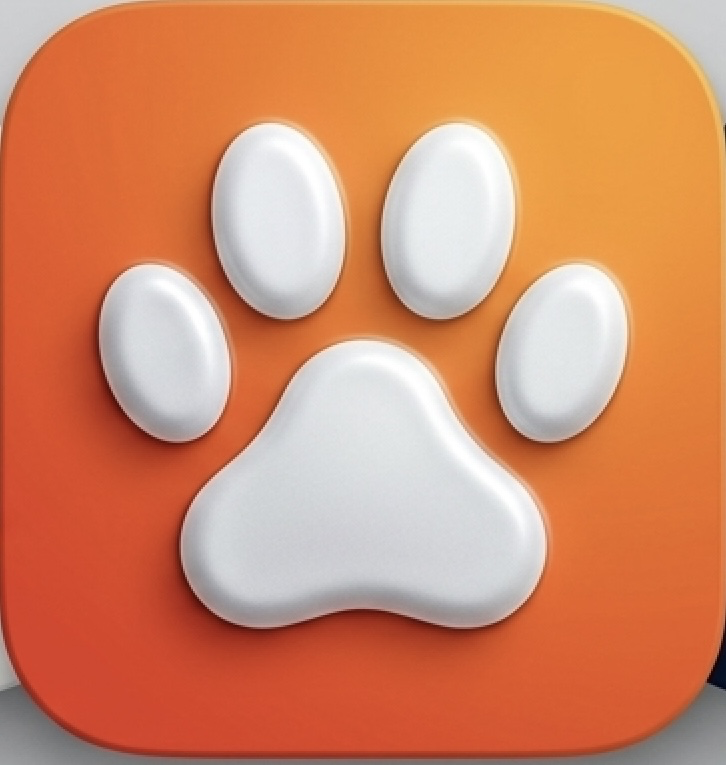
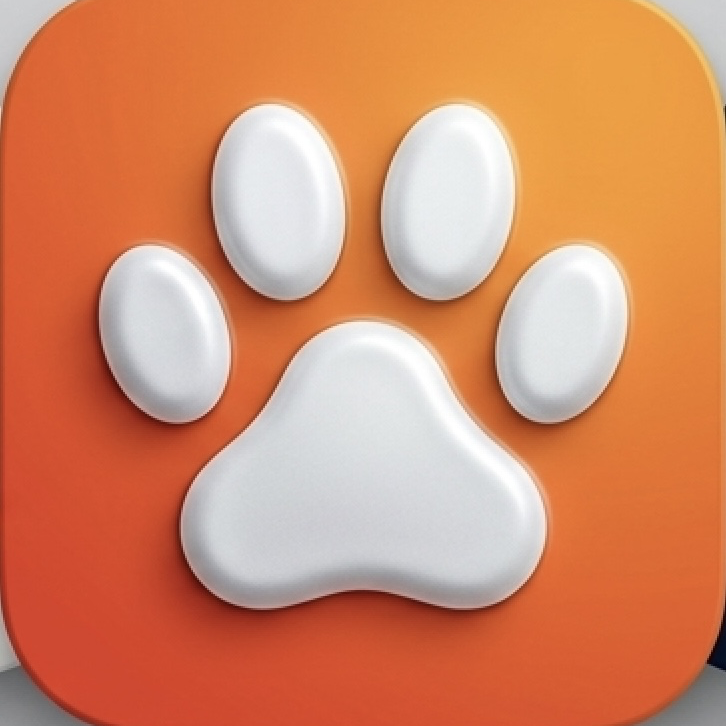
Fix active-dog state isolation and header dog picker
- Today, Walkouts, and Food tabs now strictly filter by
  STATE.activeDogId (walks via dog_id, food_items via new dog_id
  column) instead of showing all dogs' data pooled together. Pack
  tab remains the only global household view, unchanged.
- Header dog picker is now a real dropdown that only switches the
  active dog and closes; it no longer opens the Passport modal as
  a side effect (same fix applied to Pack tab card taps, which share
  the same setActiveDog()).
- Fixes confirmed live: walks/food_items were missing UPDATE
  policies (edits silently affected 0 rows), and walks.photo_url /
  dogs.avatar columns didn't exist despite being defined earlier in
  schema.sql, so every photo upload silently fell back to no photo /
  the default avatar. Added directly via `supabase db query --linked`
  and verified with real insert/update probes against the live DB.
- Square-cropped dogwalkr-icon.png (726x765 -> 726x726) for a clean
  iOS home screen icon.

diff --git a/app.html b/app.html
@@ -55,12 +55,15 @@
           </button>
           <span id="activeDogStatusDot" class="absolute bottom-0 right-0 w-3.5 h-3.5 bg-emerald-500 border-2 border-white rounded-full"></span>
         </div>
-        <div>
-          <div class="flex items-center space-x-1.5 cursor-pointer" onclick="openPackTab()">
+        <div class="relative">
+          <div class="flex items-center space-x-1.5 cursor-pointer" onclick="toggleDogPicker()">
             <h1 id="activeDogName" class="text-lg font-bold text-zinc-900 tracking-tight">Joe</h1>
             <i data-lucide="chevron-down" class="w-4 h-4 text-zinc-500"></i>
           </div>
           <p id="activeDogSubhead" class="text-xs font-medium text-zinc-500">Italian Greyhound • Active 🟢</p>
+          <div id="dogPickerDropdown" class="hidden absolute top-full left-0 mt-2 w-52 bg-white rounded-2xl shadow-xl border border-zinc-200 z-40 overflow-hidden py-1">
+            <!-- Populated by JS -->
+          </div>
         </div>
       </div>
 
@@ -150,13 +153,13 @@
       </section>
 
       <!-- ========================================================== -->
-      <!-- TAB 2: WALKOUTS (Workout Library)                          -->
+      <!-- TAB 2: WALKOUTS (Walkout Library)                          -->
       <!-- ========================================================== -->
       <section id="viewWalkouts" class="space-y-4 hidden">
         
         <div class="flex items-center justify-between">
           <div>
-            <h2 class="text-xl font-black text-zinc-900 tracking-tight">Workout Library</h2>
+            <h2 class="text-xl font-black text-zinc-900 tracking-tight">Walkout Library</h2>
             <p class="text-xs text-zinc-500">Strava Connected</p>
           </div>
           <button onclick="openLogWalkModal()" class="px-3.5 py-2 bg-orange-500 text-white rounded-xl text-xs font-bold flex items-center space-x-1.5 shadow-sm hover:bg-orange-600 transition">
@@ -575,10 +578,7 @@
         { id: 'dog_bertie', name: 'Bertie', breed: 'Pug', weight: 6.0, dob: '2025-01-15', avatar: 'https://images.unsplash.com/photo-1583511655857-d19b40a7a54e?auto=format&fit=crop&w=200&q=80' }
       ],
       walkouts: [],
-      foodItems: [
-        { id: 'food_1', name: 'Royal Canin Adult', portion: '150g Bowl', emoji: '🥣' },
-        { id: 'food_2', name: 'Salmon Oil Pump', portion: '1 Pump (5ml)', emoji: '🐟' }
-      ],
+      foodItems: [],
       foodLogs: {},
       selectedFoodDate: localDateKey(new Date())
     };
@@ -635,7 +635,7 @@
     }
 
     async function initApp() {
-      await Promise.all([fetchSupabaseWalks(), fetchSupabaseDogs(), fetchSupabaseHousehold(), fetchStravaConnectionStatus()]);
+      await Promise.all([fetchSupabaseWalks(), fetchSupabaseDogs(), fetchSupabaseHousehold(), fetchStravaConnectionStatus(), fetchFoodItems()]);
       renderAll();
 
       const params = new URLSearchParams(window.location.search);
@@ -669,7 +669,7 @@
               durationMins: 53,
               stoolScore: 3,
               notes: 'Synced via Strava 🐾',
-              dogIds: [STATE.activeDogId],
+              dog_id: STATE.activeDogId,
               created_at: new Date().toISOString()
             }];
           }
@@ -725,6 +725,19 @@
         STATE.stravaAthleteName = (data && data.athlete_name) || null;
       } catch (err) {
         console.error("Strava connection exception:", err);
+      }
+    }
+
+    async function fetchFoodItems() {
+      try {
+        const { data, error } = await db.from('food_items').select('*').order('created_at', { ascending: true });
+        if (error) {
+          console.warn("Supabase food items query notice:", error.message);
+        } else if (data) {
+          STATE.foodItems = data;
+        }
+      } catch (err) {
+        console.error("Food items connection exception:", err);
       }
     }
 
@@ -829,8 +842,10 @@
         const existing = STATE.walkouts.find(w => String(w.id) === String(editId));
         const photo_url = uploadedPhoto || (existing ? existing.photo_url : null) || null;
         const updateData = { title, humanDistance, durationMins, stoolScore, notes, photo_url };
-        const { error } = await db.from('walks').update(updateData).eq('id', editId);
-        if (error) console.warn("Walk update notice:", error.message);
+        const { data, error } = await db.from('walks').update(updateData).eq('id', editId).select();
+        if (error || !data || !data.length) {
+          console.warn("Walk update notice:", error?.message || 'update matched 0 rows — check RLS policy');
+        }
         if (existing) Object.assign(existing, updateData);
       } else {
         const newWalk = {
@@ -882,8 +897,6 @@
       renderAll();
     }
 
-    function openPackTab() { openTab('pack'); }
-
     function renderAll() {
       const activeDog = STATE.dogs.find(p => p.id === STATE.activeDogId) || STATE.dogs[0];
       if (!activeDog) return;
@@ -900,21 +913,26 @@
       if (window.lucide) lucide.createIcons();
     }
 
+    function getDogWalkouts(dogId) {
+      return STATE.walkouts.filter(w => w.dog_id === dogId);
+    }
+
     function renderDashboard(dog) {
       const multiplier = calculateStrideRatio(dog.weight);
       const now = new Date();
+      const dogWalkouts = getDogWalkouts(dog.id);
 
       document.getElementById('dashCoachHeadline').innerText = `${dog.name} is recovered and ready for walkouts!`;
       document.getElementById('dashCoachBody').innerText = `Based on recent pacing and joint recovery, a 30–45 minute walk on soft grass is optimal today. Stride ratio calibrated at ${multiplier.toFixed(2)}×.`;
 
-      const weeklyWalks = STATE.walkouts.filter(w => isWithinLast7Days(w.created_at, now));
+      const weeklyWalks = dogWalkouts.filter(w => isWithinLast7Days(w.created_at, now));
       let totalHumanKm = 0;
       weeklyWalks.forEach(w => { totalHumanKm += Number(w.humanDistance || w.distance) || 0; });
 
       document.getElementById('dashWeeklyDistance').innerText = (totalHumanKm * multiplier).toFixed(1);
       document.getElementById('dashWeeklyCount').innerText = weeklyWalks.length;
 
-      const latest = STATE.walkouts[0];
+      const latest = dogWalkouts[0];
       const container = document.getElementById('latestWalkoutContent');
       if (!latest) {
         container.innerHTML = `<p class="text-xs text-zinc-500 py-4 text-center">No workouts recorded yet.</p>`;
@@ -955,12 +973,13 @@
 
     function renderWalkouts() {
       const list = document.getElementById('walkoutsList');
-      if (STATE.walkouts.length === 0) {
+      const dogWalkouts = getDogWalkouts(STATE.activeDogId);
+      if (dogWalkouts.length === 0) {
         list.innerHTML = `<div class="p-8 text-center text-zinc-400 bg-white rounded-3xl border border-zinc-200"><p class="text-sm font-bold">No workouts found</p></div>`;
         return;
       }
 
-      list.innerHTML = STATE.walkouts.map(w => {
+      list.innerHTML = dogWalkouts.map(w => {
         const dist = Number(w.humanDistance || w.distance) || 0;
         const extraG = Math.round(dist * 25);
         const stoolMeta = stoolScoreMeta(w.stoolScore);
@@ -1022,7 +1041,8 @@
     function renderFood() {
       const doneToday = STATE.foodLogs[STATE.selectedFoodDate] || [];
       const list = document.getElementById('foodStackList');
-      list.innerHTML = STATE.foodItems.map(item => {
+      const dogFoodItems = STATE.foodItems.filter(item => item.dog_id === STATE.activeDogId);
+      list.innerHTML = dogFoodItems.map(item => {
         const done = doneToday.includes(item.id);
         return `
         <div class="bg-white rounded-2xl p-3.5 border border-zinc-200/80 shadow-xs flex items-center justify-between">
@@ -1042,7 +1062,7 @@
       `;
       }).join('');
 
-      const dayWalks = STATE.walkouts.filter(w => w.created_at && localDateKey(new Date(w.created_at)) === STATE.selectedFoodDate);
+      const dayWalks = getDogWalkouts(STATE.activeDogId).filter(w => w.created_at && localDateKey(new Date(w.created_at)) === STATE.selectedFoodDate);
       const extraKibble = dayWalks.reduce((sum, w) => sum + Math.round((Number(w.humanDistance || w.distance) || 0) * 25), 0);
       document.getElementById('foodTotalExtraEarned').innerText = `+${extraKibble}`;
 
@@ -1089,8 +1109,38 @@
     function setActiveDog(dogId) {
       STATE.activeDogId = dogId;
       renderAll();
-      showDogPassportModal(dogId);
+      const dropdown = document.getElementById('dogPickerDropdown');
+      if (dropdown) dropdown.classList.add('hidden');
     }
+
+    function toggleDogPicker() {
+      const dropdown = document.getElementById('dogPickerDropdown');
+      const isHidden = dropdown.classList.contains('hidden');
+      if (isHidden) {
+        renderDogPicker();
+        dropdown.classList.remove('hidden');
+      } else {
+        dropdown.classList.add('hidden');
+      }
+    }
+
+    function renderDogPicker() {
+      const dropdown = document.getElementById('dogPickerDropdown');
+      dropdown.innerHTML = STATE.dogs.map(d => `
+        <button onclick="setActiveDog('${d.id}')" class="w-full flex items-center space-x-2.5 px-3.5 py-2.5 hover:bg-zinc-50 text-left transition ${d.id === STATE.activeDogId ? 'bg-orange-50' : ''}">
+          <img src="${d.avatar}" alt="${d.name}" class="w-8 h-8 rounded-xl object-cover flex-shrink-0" />
+          <span class="text-sm font-semibold text-zinc-900 flex-1">${d.name}</span>
+          ${d.id === STATE.activeDogId ? '<i data-lucide="check" class="w-4 h-4 text-orange-500"></i>' : ''}
+        </button>
+      `).join('');
+      if (window.lucide) lucide.createIcons();
+    }
+
+    document.addEventListener('click', (e) => {
+      const dropdown = document.getElementById('dogPickerDropdown');
+      if (!dropdown || dropdown.classList.contains('hidden')) return;
+      if (!dropdown.parentElement.contains(e.target)) dropdown.classList.add('hidden');
+    });
 
     function showDogPassportModal(dogId) {
       const dog = STATE.dogs.find(p => p.id === dogId) || STATE.dogs.find(p => p.id === STATE.activeDogId) || STATE.dogs[0];
@@ -1176,8 +1226,10 @@
       if (uploadedAvatar) dogData.avatar = uploadedAvatar;
 
       if (editId) {
-        const { error } = await db.from('dogs').update(dogData).eq('id', editId);
-        if (error) console.warn("Supabase dog update notice:", error.message);
+        const { data, error } = await db.from('dogs').update(dogData).eq('id', editId).select();
+        if (error || !data || !data.length) {
+          console.warn("Supabase dog update notice:", error?.message || 'update matched 0 rows — check RLS policy');
+        }
         const dog = STATE.dogs.find(d => d.id === editId);
         if (dog) Object.assign(dog, dogData, { weight });
       } else {
@@ -1232,12 +1284,14 @@
       if (!name) return;
 
       if (editId) {
-        const { error } = await db.from('food_items').update({ name, portion }).eq('id', editId);
-        if (error) console.warn("Supabase food item update notice:", error.message);
+        const { data, error } = await db.from('food_items').update({ name, portion }).eq('id', editId).select();
+        if (error || !data || !data.length) {
+          console.warn("Supabase food item update notice:", error?.message || 'update matched 0 rows');
+        }
         const item = STATE.foodItems.find(i => i.id === editId);
         if (item) { item.name = name; item.portion = portion; }
       } else {
-        const newItem = { name, portion, emoji: '🥣' };
+        const newItem = { name, portion, emoji: '🥣', dog_id: STATE.activeDogId };
         const { data, error } = await db.from('food_items').insert([newItem]).select();
         if (error || !data) {
           console.warn("Supabase food item insert notice:", error?.message);
